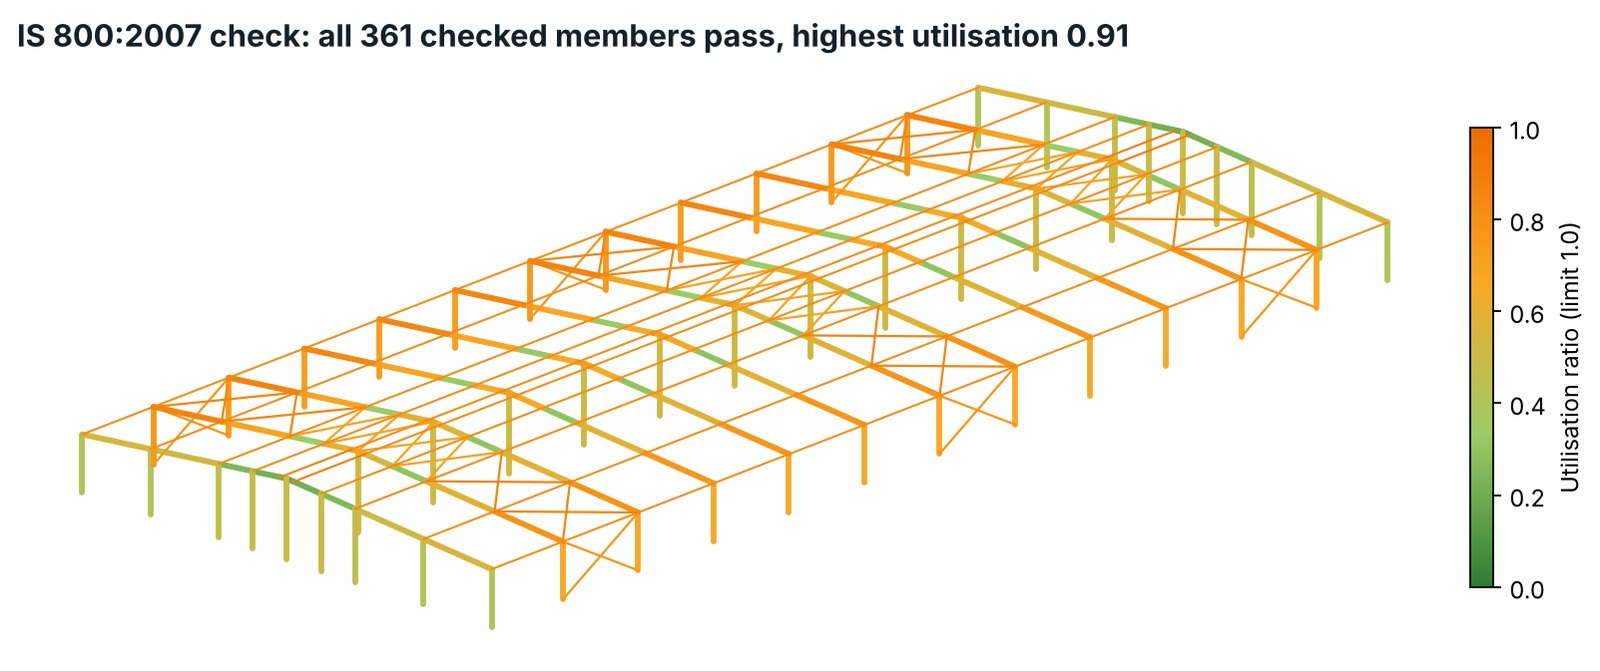
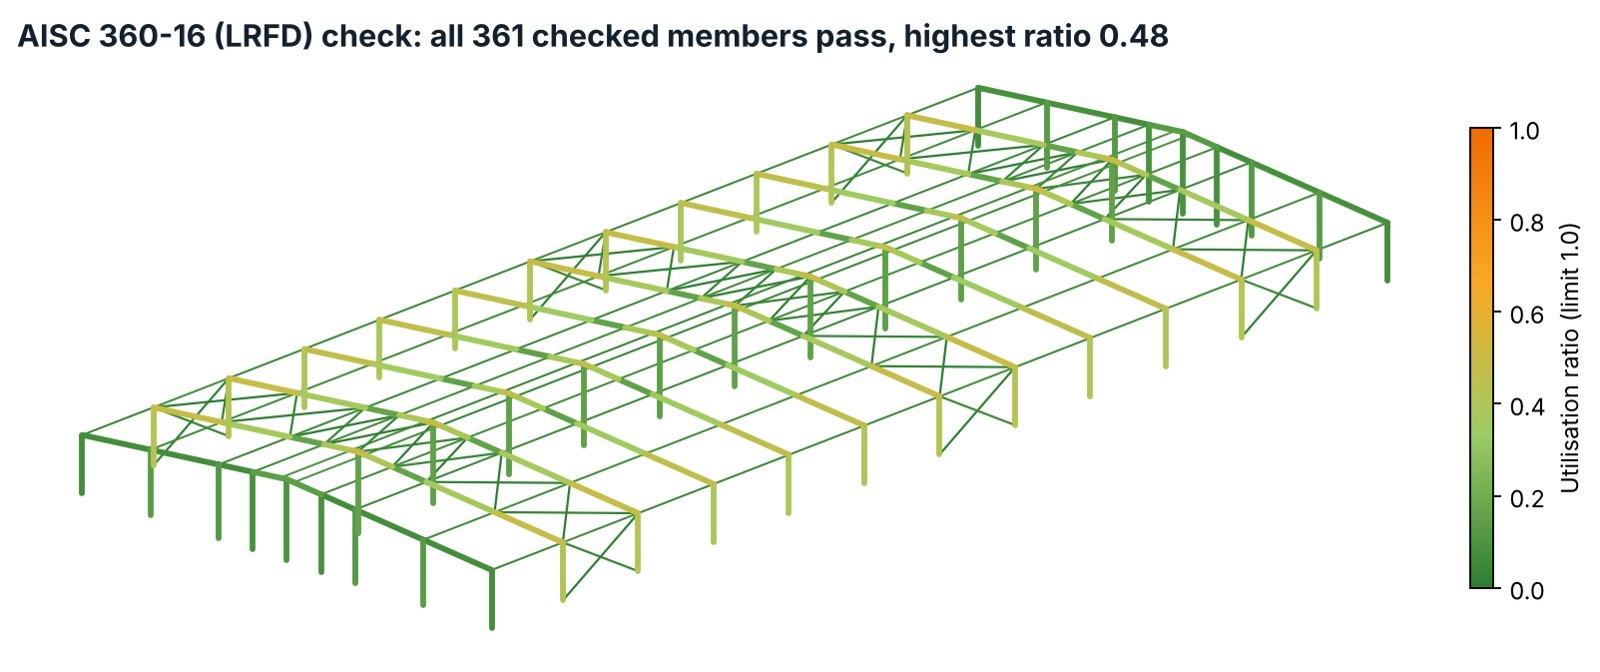
PEB page: AISC 360-16 / ASCE 7-16 design basis and results

diff --git a/projects/steel-warehouse.html b/projects/steel-warehouse.html
@@ -4,7 +4,7 @@
 <meta charset="utf-8">
 <meta name="viewport" content="width=device-width, initial-scale=1">
 <title>Steel PEB Building | Axiora</title>
-<meta name="description" content="A 40 × 91 m pre-engineered steel building with tapered portal frames, designed to IS 800, with every connection, the cladding and the reinforced foundations detailed in a full 3D model.">
+<meta name="description" content="A 40 × 91 m pre-engineered steel building with tapered portal frames, designed to AISC 360-16, with every connection, the cladding and the reinforced foundations detailed in a full 3D model.">
 <link rel="icon" href="../logo.svg" type="image/svg+xml">
 <link rel="preconnect" href="https://fonts.googleapis.com"><link rel="preconnect" href="https://fonts.gstatic.com" crossorigin><link href="https://fonts.googleapis.com/css2?family=IBM+Plex+Mono:wght@400;500&family=IBM+Plex+Sans:wght@400;500;600;700&display=swap" rel="stylesheet">
 <link rel="stylesheet" href="../styles.css">
@@ -46,7 +46,7 @@
 <div class="wrap">
   <header class="p-hero">
     <a class="crumb mono" href="../index.html#projects">← All projects</a>
-    <div style="margin-top:18px"><span class="tag mono">Industrial · Steel PEB · IS 800</span> <span class="tag mono">Design project</span></div>
+    <div style="margin-top:18px"><span class="tag mono">Industrial · Steel PEB · AISC 360</span> <span class="tag mono">Design project</span></div>
     <h1>Steel PEB Building: 40 m wide, tapered portal frames</h1>
     <p class="lead">A 40 × 91 m pre-engineered steel building of about 3,650 m², with 12 bays of tapered portal frames. I designed the members and every connection for wind and seismic loads, then built the complete steel model with each member in its true position and every plate, bolt and base detailed. The finished model now also carries the cladding, gates and reinforced foundations.</p>
     <figure class="figure"><video src="media/peb_walkthrough.mp4" poster="img/peb_video_poster.jpg" width="1920" height="1080" autoplay muted loop playsinline controls preload="metadata" aria-label="Walkthrough of the detailed 3D model: the clad building, the frames under the cladding, an eave knee connection and the reinforced foundations"></video><figcaption>Walkthrough of the detailed 3D model: the clad building, the frames under the cladding, an eave knee and the reinforced foundations.</figcaption></figure>
@@ -74,7 +74,7 @@
   <div class="p-body">
     <article>
       <h2>The challenge</h2><p>The building needed a 40 m wide covered floor, about 91 m long, with a low eave of 5 m. A wide, low building attracts high wind uplift on the roof, and every frame is repeated twelve times, so any extra steel in one frame is multiplied across the whole building.</p>
-      <h2>My approach</h2><ul><li>Set out a two-span frame (2 × 20 m) with a central column, so the rafters stay shallow and light instead of spanning the full 40 m.</li><li>Used tapered I-sections for rafters and columns: deep (up to 750 mm) where bending is highest at the eaves and the ridge, shallow where it is not.</li><li>Applied wind loads to IS 875 Part 3 (basic wind speed 33 m/s) and seismic loads to IS 1893 with a response spectrum analysis, then checked 99 load combinations.</li><li>Placed roof and wall bracing in the end and middle bays to carry wind along the length of the building into the foundations.</li><li>Checked all 361 members to IS 800:2007 (limit state). Every member passes; the highest utilisation is 0.91, on a purlin, and 0.87 on the rafters.</li><li>Designed every connection type for the worst forces across all its locations and all 65 ultimate load combinations, then modelled each one in place.</li></ul>
+      <h2>My approach</h2><ul><li>Set out a two-span frame (2 × 20 m) with a central column, so the rafters stay shallow and light instead of spanning the full 40 m.</li><li>Used tapered I-sections for rafters and columns: deep (up to 750 mm) where bending is highest at the eaves and the ridge, shallow where it is not.</li><li>Applied wind loads to ASCE 7-16 (basic wind speed 47 m/s, exposure C) and seismic loads to ASCE 7-16 by the equivalent lateral force method, then checked 34 strength and 5 serviceability load combinations.</li><li>Placed roof and wall bracing in the end and middle bays to carry wind along the length of the building into the foundations.</li><li>Checked all 361 members to AISC 360-16 (LRFD) using the direct analysis method with P-delta. Every member passes; the highest ratio is 0.48 on the rafters and 0.42 on the side columns, so the frame sizes are set by stiffness rather than strength.</li><li>Designed every connection type for the worst forces across all its locations and all 34 strength load combinations, then modelled each one in place.</li></ul>
 
       <h2>From analysis lines to a real steel model</h2>
       <p>An analysis model puts every member on its centreline, so members overlap at the joints and no plate or bolt can be placed correctly. I rebuilt the structure as a fabrication-ready model:</p>
@@ -94,43 +94,44 @@
       </div>
 
       <h2>Connections</h2>
-      <p>Each connection was designed by hand to IS 800:2007, including bolt prying (cl. 10.4.7), end-plate bending, column web panel shear, stiffeners and welds. The eave knee was then checked again with a finite-element connection model, which confirmed the bolts and plates and led me to upgrade the stiffener welds to full penetration.</p>
+      <p>Each connection was designed by hand to AISC 360-16. The bolted end plates follow the AISC end-plate method with thick plates (no prying), with checks on bolt rupture, end-plate yielding, compression-side bolt shear and moment reversal. At the eave knee I checked column panel zone shear, sized diagonal stiffeners to carry the full panel force and specified complete-joint-penetration welds on the rafter stub flanges. Base plates, anchor rods and shear lugs were checked to AISC 360-16 and ACI 318-19.</p>
       <div class="gallery">
-        <figure class="figure"><img src="img/peb_conn_knee.jpg" alt="Eave knee: extended end plate with 12 bolts and column stiffeners" width="1400" height="875" loading="lazy"><figcaption>Eave knee: 25 mm extended end plate, 12 × M24 grade 8.8, stiffeners at both rafter flanges. Ratio 0.91.</figcaption></figure>
-        <figure class="figure"><img src="img/peb_conn_ridge.jpg" alt="Ridge joint over the central column with bolted end plates" width="1400" height="875" loading="lazy"><figcaption>Ridge over the central column: 32 mm end plates, M30 grade 8.8 bolts, column cap below. Ratio 0.93.</figcaption></figure>
-        <figure class="figure"><img src="img/peb_conn_splice.jpg" alt="Rafter splice with bolted end plates" width="1400" height="875" loading="lazy"><figcaption>Rafter splice at 6.67 m: 25 mm end plates extended on the tension side, 8 × M24. Ratio 0.86.</figcaption></figure>
-        <figure class="figure"><img src="img/peb_conn_base.jpg" alt="Pinned column base with base plate and anchor bolts on a concrete pedestal, with the pedestal and footing reinforcement shown" width="1400" height="875" loading="lazy"><figcaption>Pinned base: 20 mm plate, 4 anchors near the web, shear key under the plate. The anchor rods are cast 450 mm into the reinforced pedestal, with an end plate at the bottom and a nut on top. Ratio 0.77.</figcaption></figure>
-        <figure class="figure"><img src="img/peb_conn_purlin.jpg" alt="Purlin seated on a welded cleat on the rafter" width="1400" height="875" loading="lazy"><figcaption>Purlin cleat: stiffened cleat welded to the rafter, 2 × M16 bolts. Ratio 0.34.</figcaption></figure>
+        <figure class="figure"><img src="img/peb_conn_knee.jpg" alt="Eave knee: rafter stub welded to the column with diagonal stiffeners, and a bolted end-plate splice" width="1400" height="875" loading="lazy"><figcaption>Eave knee: rafter stub welded to the column (CJP flanges) with diagonal panel stiffeners, and a 25 mm flush end-plate splice with 16 × M24 A325 bolts. Ratio 0.88.</figcaption></figure>
+        <figure class="figure"><img src="img/peb_conn_ridge.jpg" alt="Ridge joint over the central column with bolted end plates" width="1400" height="875" loading="lazy"><figcaption>Ridge over the central column: 32 mm extended end plates, M30 A325 bolts, column cap below. Ratio 0.80.</figcaption></figure>
+        <figure class="figure"><img src="img/peb_conn_splice.jpg" alt="Rafter splice with bolted end plates" width="1400" height="875" loading="lazy"><figcaption>Rafter splice: 25 mm end plates extended on the tension side, M24 A325 bolts. Ratio 0.80.</figcaption></figure>
+        <figure class="figure"><img src="img/peb_conn_base.jpg" alt="Pinned column base with base plate and anchor bolts on a concrete pedestal, with the pedestal and footing reinforcement shown" width="1400" height="875" loading="lazy"><figcaption>Pinned base: 20 mm plate, 4 × M24 ASTM F1554 Gr 36 anchor rods near the web, 200 × 150 × 30 shear lug under the plate. The anchor rods are cast 450 mm into the reinforced pedestal, with an end plate at the bottom and a nut on top. Ratio 0.53.</figcaption></figure>
+        <figure class="figure"><img src="img/peb_conn_purlin.jpg" alt="Purlin seated on a welded cleat on the rafter" width="1400" height="875" loading="lazy"><figcaption>Purlin cleat: stiffened cleat welded to the rafter, 2 × M16 bolts at each end. Ratio 0.17.</figcaption></figure>
         <figure class="figure"><img src="img/peb_model_bracing.jpg" alt="Roof bracing bay with angle bracing bolted to gusset plates" width="1400" height="875" loading="lazy"><figcaption>Roof bracing: angles bolted to 10 mm gussets with 2 × M20 at each end.</figcaption></figure>
       </div>
 
       <h2>Connection schedule</h2>
       <div class="tablewrap"><table class="sched">
-        <tr><th>Connection</th><th>Governing forces (ULS)</th><th>Detail</th><th>Ratio</th></tr>
-        <tr><td>Eave knee</td><td>M 606 kNm, V 190 kN</td><td>End plate 300 × 854 × 25, 12 × M24 8.8</td><td>0.91</td></tr>
-        <tr><td>Ridge</td><td>M 747 kNm, V 210 kN</td><td>End plates 300 × 753 × 32, 10 × M30 8.8</td><td>0.93</td></tr>
-        <tr><td>Central column cap</td><td>N 371 kN</td><td>Cap 300 × 500 × 25, 4 × M24 8.8</td><td>0.38</td></tr>
-        <tr><td>Rafter splice, 6.67 m</td><td>M 239 kNm</td><td>End plates 300 × 602 × 25, 8 × M24 8.8</td><td>0.86</td></tr>
-        <tr><td>Rafter splice, 16.67 m</td><td>M 180 kNm</td><td>End plates 300 × 602 × 20, 8 × M24 8.8</td><td>0.71</td></tr>
-        <tr><td>Side column base</td><td>N 218, uplift 44, H 123 kN</td><td>Plate 300 × 500 × 20, 4 × M24, shear key</td><td>0.77</td></tr>
-        <tr><td>Central column base</td><td>N 379, uplift 40 kN</td><td>Plate 300 × 500 × 20, 4 × M24</td><td>0.27</td></tr>
-        <tr><td>Gable column base and top</td><td>N 78, H 17 kN</td><td>Plate 300 × 500 × 20, 4 × M20; 12 mm cap, 2 × M20</td><td>0.40</td></tr>
-        <tr><td>Purlin to rafter</td><td>V 37 kN</td><td>8 mm cleat, 2 × M16 8.8</td><td>0.34</td></tr>
-        <tr><td>Ridge purlins</td><td>N 48 kN, M 23 kNm</td><td>12 mm cleat, 4 × M20 8.8</td><td>0.61</td></tr>
-        <tr><td>Roof and wall bracing</td><td>N 29 kN</td><td>10 mm gusset, 2 × M20 8.8</td><td>0.16</td></tr>
+        <tr><th>Connection</th><th>Governing forces (LRFD)</th><th>Detail</th><th>Ratio</th></tr>
+        <tr><td>Eave knee splice (1.30 m)</td><td>M 258 kNm</td><td>Flush end plate 25 mm, 16 × M24 A325</td><td>0.87</td></tr>
+        <tr><td>Eave knee panel</td><td>Flange force 495 kN</td><td>CJP rafter-stub flanges, diagonal stiffeners 2 × 142 × 12</td><td>0.88</td></tr>
+        <tr><td>Ridge</td><td>M 529 kNm, V 143 kN</td><td>Extended end plates 32 mm, M30 A325</td><td>0.80</td></tr>
+        <tr><td>Central column cap</td><td>N 276 kN</td><td>Cap plate, 4 × M24 A325</td><td>0.24</td></tr>
+        <tr><td>Rafter splice, 6.07 m</td><td>M 129 kNm</td><td>Extended end plates 25 mm, M24 A325</td><td>0.80</td></tr>
+        <tr><td>Rafter splice, 16.07 m</td><td>M 70 kNm</td><td>End plates 20 mm, M24 A325</td><td>0.95</td></tr>
+        <tr><td>Side column base</td><td>H 85 kN, uplift 5 kN</td><td>Plate 20 mm, 4 × M24 F1554 Gr 36, shear lug 200 × 150 × 30</td><td>0.53</td></tr>
+        <tr><td>Central column base</td><td>Bearing 1.9 MPa</td><td>Plate 20 mm, 4 × M24 F1554 Gr 36</td><td>0.23</td></tr>
+        <tr><td>Gable column base and top</td><td>H 16 kN</td><td>Plate 20 mm, 4 × M20 F1554 Gr 36; top 2 × M20</td><td>0.15</td></tr>
+        <tr><td>Purlin to rafter</td><td>V 38 kN</td><td>Cleat with bearing stiffeners, 2 × M16 A325 each end</td><td>0.17</td></tr>
+        <tr><td>Ridge purlins</td><td>Bolt force 36 kN</td><td>4 × M20 A325 each end</td><td>0.41</td></tr>
+        <tr><td>Roof and wall bracing</td><td>N 18 kN</td><td>10 mm gusset, 2 × M20 A325</td><td>0.10</td></tr>
       </table></div>
 
       <h2>Analysis</h2>
       <figure class="figure"><img src="img/peb_staad_3d.jpg" alt="3D analysis model of the steel PEB building with full member sections shown" width="1055" height="719" loading="lazy"><figcaption>Analysis model with full member sections: tapered rafters and columns, purlins, and roof and wall bracing.</figcaption></figure>
       <figure class="figure"><img src="img/peb_frame.jpg" alt="Elevation of a typical frame: two 20 m spans, 5 m eave, 7 m ridge, pinned bases" width="1400" height="374" loading="lazy"><figcaption>Typical frame: two 20 m spans with a central column and pinned bases.</figcaption></figure>
-      <figure class="figure"><img src="img/peb_utilisation.jpg" alt="Member utilisation map, all members below 1.0" width="1600" height="671" loading="lazy"><figcaption>Member check results: colour shows the utilisation ratio of each member (1.0 is the code limit).</figcaption></figure>
+      <figure class="figure"><img src="img/peb_utilisation.jpg?v=2" alt="AISC 360-16 member check map, all members below 1.0" width="1600" height="671" loading="lazy"><figcaption>Member check results: colour shows the utilisation ratio of each member (1.0 is the code limit).</figcaption></figure>
 
-      <h2>Results</h2><ul><li>Steel weight of about 133 t, or about 36 kg per m² of floor.</li><li>All members pass, with reserve in the columns (side columns 0.75, central columns 0.51).</li><li>All 13 connection types pass; the highest ratios are 0.93 at the ridge and 0.91 at the eave knee.</li><li>A complete 3D steel model ready for shop drawings, plus support reactions for the foundation design.</li><li>The model carries the full envelope and reinforced foundations, with no clashes in the steel.</li></ul>
+      <h2>Results</h2><ul><li>Steel weight of about 142 t, or about 39 kg per m² of floor.</li><li>All members pass with reserve (rafters 0.48, side columns 0.42, central columns 0.16). Under service loads the rafters deflect about 31 mm (span/640) and the eaves sway less than 2 mm.</li><li>All 15 connection types pass; the highest ratios are 0.95 at the rafter splice and 0.88 at the eave knee.</li><li>A complete 3D steel model ready for shop drawings, plus support reactions for the foundation design.</li><li>The model carries the full envelope and reinforced foundations, with no clashes in the steel.</li></ul>
       <h2>Deliverables</h2><ul><li>Structural analysis and design report</li><li>Member schedule with tapered section sizes</li><li>Connection design calculations and schedule</li><li>Full 3D model (LOD 400): steel, cladding, gates and doors</li><li>Foundation sizes and reinforcement</li><li>Support reactions for the foundation design</li></ul>
     </article>
     <aside class="spec card">
       <h3>Project snapshot</h3>
-      <table><tr><td>Type</td><td>Pre-engineered steel building</td></tr><tr><td>Size</td><td>40 × 91 m, about 3,650 m²</td></tr><tr><td>Height</td><td>5 m eave, 7 m ridge</td></tr><tr><td>Frames</td><td>13 tapered portal frames, 12 bays</td></tr><tr><td>Steel</td><td>About 133 t (36 kg/m²)</td></tr><tr><td>Members</td><td>361 checked, all pass (max 0.91)</td></tr><tr><td>Connections</td><td>13 types, all pass (max 0.93)</td></tr><tr><td>3D model</td><td>LOD 400: steel, cladding, foundations</td></tr><tr><td>Codes</td><td>IS 800:2007, IS 875-3:2015, IS 1893:2016</td></tr><tr><td>Role</td><td>Analysis, member, connection and foundation design; 3D model</td></tr></table>
+      <table><tr><td>Type</td><td>Pre-engineered steel building</td></tr><tr><td>Size</td><td>40 × 91 m, about 3,650 m²</td></tr><tr><td>Height</td><td>5 m eave, 7 m ridge</td></tr><tr><td>Frames</td><td>13 tapered portal frames, 12 bays</td></tr><tr><td>Steel</td><td>About 142 t (39 kg/m²)</td></tr><tr><td>Members</td><td>361 checked, all pass (max 0.48)</td></tr><tr><td>Connections</td><td>15 types, all pass (max 0.95)</td></tr><tr><td>3D model</td><td>LOD 400: steel, cladding, foundations</td></tr><tr><td>Codes</td><td>AISC 360-16 (LRFD), ASCE 7-16, ACI 318-19</td></tr><tr><td>Role</td><td>Analysis, member, connection and foundation design; 3D model</td></tr></table>
       <p class="note">Design project. Client and site details are kept confidential.</p>
       <div class="cta"><a class="btn primary" href="mailto:aamir@axioraengineering.com?subject=Project%20enquiry%3A%20Steel%20PEB%20building">Discuss a similar project</a></div>
     </aside>

diff --git a/index.html b/index.html
@@ -52,7 +52,7 @@
 <text x="16" y="342" class="d-txt">DURABILITY: COVER · CEMENT TYPE · W/C RATIO</text>
 </svg></div>
 <div class="meta mono">UAE · Residential · RC frame</div><h3>Coastal Villa</h3><p>A two-storey reinforced concrete villa close to the shoreline, where groundwater and salt-laden air drive every durability decision.</p><span class="more">View project →</span></a><a class="card proj" href="projects/steel-warehouse.html"><div class="thumb"><img src="projects/img/peb_thumb.jpg" alt="3D view of the clad steel PEB building with a roller-shutter gate in the gable" width="960" height="480" loading="lazy"></div>
-<div class="meta mono">Industrial · Steel PEB · IS 800</div><h3>Steel PEB Building</h3><p>A 40 × 91 m steel building with tapered portal frames: 361 members designed to IS 800, all passing, at about 36 kg/m² of steel.</p><span class="more">View project →</span></a><a class="card proj" href="projects/mid-rise-residential.html"><div class="thumb"><svg viewBox="0 0 640 360" role="img" aria-label="Frame elevation of a G+4 building with lateral loads and deflected shape"><defs><marker id="ahmic" viewBox="0 0 10 10" refX="9" refY="5" markerWidth="6" markerHeight="6" orient="auto-start-reverse"><path d="M0 0L10 5L0 10z" fill="var(--accent)"/></marker><marker id="dmmic" viewBox="0 0 10 10" refX="5" refY="5" markerWidth="5" markerHeight="5" orient="auto-start-reverse"><path d="M0 0L10 5L0 10z" fill="var(--blue)"/></marker></defs>
+<div class="meta mono">Industrial · Steel PEB · AISC 360</div><h3>Steel PEB Building</h3><p>A 40 × 91 m steel building with tapered portal frames: 361 members designed to AISC 360-16, all passing, at about 39 kg/m² of steel.</p><span class="more">View project →</span></a><a class="card proj" href="projects/mid-rise-residential.html"><div class="thumb"><svg viewBox="0 0 640 360" role="img" aria-label="Frame elevation of a G+4 building with lateral loads and deflected shape"><defs><marker id="ahmic" viewBox="0 0 10 10" refX="9" refY="5" markerWidth="6" markerHeight="6" orient="auto-start-reverse"><path d="M0 0L10 5L0 10z" fill="var(--accent)"/></marker><marker id="dmmic" viewBox="0 0 10 10" refX="5" refY="5" markerWidth="5" markerHeight="5" orient="auto-start-reverse"><path d="M0 0L10 5L0 10z" fill="var(--blue)"/></marker></defs>
 <rect x="100" y="300" width="400" height="40" class="d-soil"/>
 <line x1="100" y1="300" x2="500" y2="300" class="d-line" stroke-width="1.5"/>
 <g class="d-line" stroke-width="2"><line x1="150" y1="300" x2="150" y2="50" /><line x1="250" y1="300" x2="250" y2="50" /><line x1="350" y1="300" x2="350" y2="50" /><line x1="450" y1="300" x2="450" y2="50" /><line x1="150" y1="250" x2="450" y2="250" /><line x1="150" y1="200" x2="450" y2="200" /><line x1="150" y1="150" x2="450" y2="150" /><line x1="150" y1="100" x2="450" y2="100" /><line x1="150" y1="50" x2="450" y2="50" /></g>
